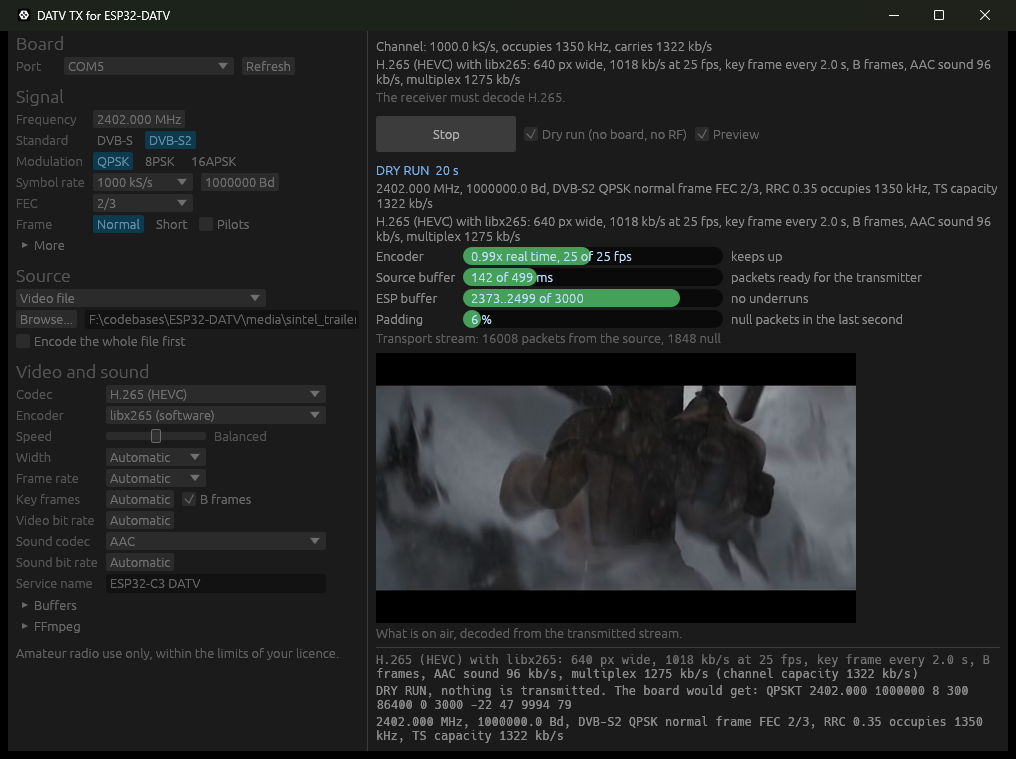
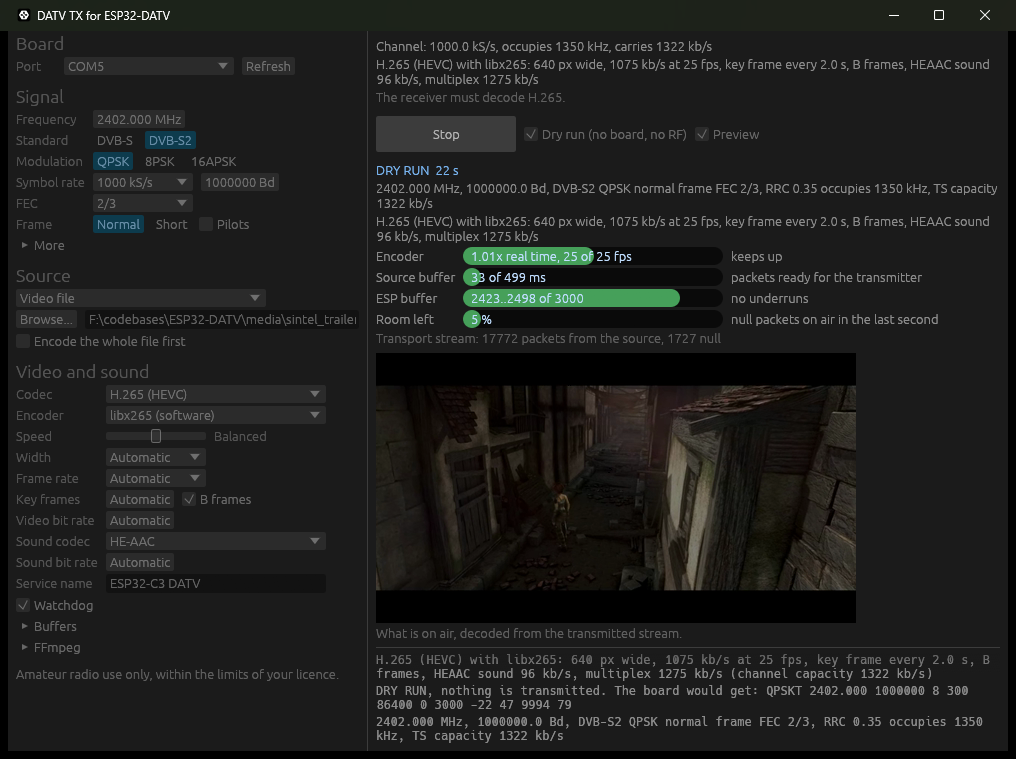
Add screenshots; end FFmpeg with the program; --defaults
- README: screenshots of a normal run, an encoder that is too slow,
  encoding the file first and the watchdog
- The program puts itself in a Windows job object, so the FFmpeg
  processes it starts end with it even when it is killed
- datv-tx --defaults starts from the built-in settings and does not save

diff --git a/src/main.rs b/src/main.rs
@@ -16,7 +16,11 @@ const RATES: [u64; 7] = [33_000, 66_000, 125_000, 250_000, 333_000, 500_000, 1_0
 
 fn main() -> eframe::Result {
     let args: Vec<String> = std::env::args().skip(1).collect();
-    let mut cfg = prefs::load();
+    datv_tx::end_children_with_me();
+    // --defaults: start from the built-in settings and leave the saved ones alone (for
+    // demonstrations and screenshots)
+    let keep = !std::env::args().any(|a| a == "--defaults");
+    let mut cfg = if keep { prefs::load() } else { prefs::default_config() };
     cfg.dry_run = false; // never start on the air without it being chosen in this run
     let mut start = false;
     let rest: Vec<String> = args
@@ -24,7 +28,7 @@ fn main() -> eframe::Result {
         .filter(|a| {
             let s = a == "--start";
             start |= s;
-            !s
+            !s && a != "--defaults"
         })
         .collect();
     let mut arg_error = prefs::apply_args(&mut cfg, &rest).err();
@@ -46,6 +50,7 @@ fn main() -> eframe::Result {
         Box::new(move |cc| {
             cc.egui_ctx.set_theme(egui::Theme::Dark);
             let mut app = App::new(cfg);
+            app.keep = keep;
             if let Some(e) = arg_error {
                 app.log.push(format!("command line: {e}"));
             }
@@ -58,6 +63,8 @@ fn main() -> eframe::Result {
 }
 
 struct App {
+    /// Save the settings (not with --defaults).
+    keep: bool,
     cfg: TxConfig,
     saved: TxConfig,
     session: Option<Session>,
@@ -74,6 +81,7 @@ struct App {
 impl App {
     fn new(cfg: TxConfig) -> Self {
         let mut a = App {
+            keep: true,
             saved: cfg.clone(),
             encoders: installed_encoders(&cfg.media.ffmpeg),
             cfg,
@@ -110,7 +118,9 @@ impl App {
         self.session = None; // ends a finished one
         self.picture = None;
         self.picture_seq = 0;
-        prefs::save(&self.cfg);
+        if self.keep {
+            prefs::save(&self.cfg);
+        }
         self.saved = self.cfg.clone();
         self.log.push(if self.cfg.dry_run { "--- dry run ---" } else { "--- transmit ---" });
         self.session = Some(Session::start(self.cfg.clone(), self.log.clone()));
@@ -704,7 +714,9 @@ impl eframe::App for App {
         c.dry_run = false;
         c.seconds = 0.0;
         c.ts_out.clear();
-        prefs::save(&c);
+        if self.keep {
+            prefs::save(&c);
+        }
     }
 
     fn ui(&mut self, ui: &mut egui::Ui, _frame: &mut eframe::Frame) {

diff --git a/src/lib.rs b/src/lib.rs
@@ -8,3 +8,30 @@ pub mod prefs;
 pub mod preview;
 pub mod source;
 pub mod tx;
+
+/// Makes the FFmpeg processes this program starts end with it, however it ends. Windows
+/// keeps children running when their parent is killed; an encoder would go on using the
+/// processor with nobody reading what it makes. The program puts itself in a job object
+/// that kills its members when the last handle to it closes, which is when this process is
+/// gone; children are born into the job.
+pub fn end_children_with_me() {
+    #[cfg(windows)]
+    unsafe {
+        use windows_sys::Win32::System::JobObjects::*;
+        use windows_sys::Win32::System::Threading::GetCurrentProcess;
+        let job = CreateJobObjectW(std::ptr::null(), std::ptr::null());
+        if job.is_null() {
+            return;
+        }
+        let mut info: JOBOBJECT_EXTENDED_LIMIT_INFORMATION = std::mem::zeroed();
+        info.BasicLimitInformation.LimitFlags = JOB_OBJECT_LIMIT_KILL_ON_JOB_CLOSE;
+        SetInformationJobObject(
+            job,
+            JobObjectExtendedLimitInformation,
+            &info as *const _ as *const _,
+            std::mem::size_of::<JOBOBJECT_EXTENDED_LIMIT_INFORMATION>() as u32,
+        );
+        AssignProcessToJobObject(job, GetCurrentProcess());
+        // the handle is kept until the process ends: closing it is the signal
+    }
+}

diff --git a/src/bin/datv-tx-cli.rs b/src/bin/datv-tx-cli.rs
@@ -4,6 +4,7 @@ use datv_tx::source::Log;
 use datv_tx::tx::Session;
 
 fn main() {
+    datv_tx::end_children_with_me();
     let args: Vec<String> = std::env::args().skip(1).collect();
     let mut c = default_config();
     c.preview = false; // no window to show it in

diff --git a/README.md b/README.md
@@ -14,6 +14,9 @@ Amateur radio use only, within the limits of your licence. The firmware transmit
 
 ![DATV TX window](docs/datv-tx.png)
 
+*A dry run (nothing transmitted): H.265 with HE-AAC sound in a 1 MS/s DVB-S2 channel. The
+picture is decoded from the stream that would go on air.*
+
 ## What you need
 
 - An ESP32-C3 with the ESP32-DATV firmware (flash it with that project's app, web flasher or ESP-IDF).
@@ -82,6 +85,21 @@ While it runs, four bars show how it is doing:
 | ESP buffer | symbols in the board's buffer; red if it has run dry (USB or the PC too slow) |
 | Room left | null packets on air in the last second, FFmpeg's and the ones added here: near 100 % means the encoder delivers nothing; red when there are none and packets pile up (the watchdog's cue) |
 
+An encoder that cannot keep up (here H.266 on Slow, encoding while transmitting) shows red;
+the cure is a faster speed, a smaller picture, or encoding the file first:
+
+![Encoder too slow](docs/too-slow.png)
+
+With **Encode the whole file first** the same settings work, because nothing is transmitted
+until the file is done:
+
+![Encoding the file first](docs/encode-first.png)
+
+The watchdog at work: NVENC asked for 1080p AV1 in 205 kb/s makes more than the channel
+carries, and the video bit rate has been lowered twice until it fits:
+
+![Watchdog](docs/watchdog.png)
+
 **Dry run** runs everything into a simulated ESP: no board is opened and nothing is
 transmitted. `datv-tx-cli` is the same engine on the command line:
 
@@ -90,6 +108,11 @@ datv-tx-cli --dry-run --seconds 10 --codec av1 --audio opus --baud 1000000 --fec
 datv-tx-cli --port COM5 --freq 2402 --baud 333000 --dvbs2 --fec 2/3 --codec hevc --film film.mp4
 datv-tx-cli --help
 ```
+
+`datv-tx --defaults ...` starts the window from the built-in settings and leaves the saved
+ones alone; with `--dry-run --start` it starts a dry run at once (the screenshots here were
+made that way). The command line cannot start a real transmission in the window: that is
+always a click on Transmit.
 
 ## Notes on the codecs
 
